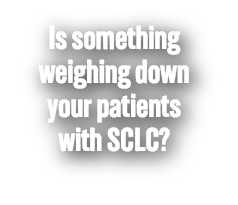
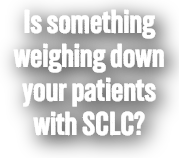
adjusted text image 1

diff --git a/043026_Catalyst_HTML5_AGA-0000_300x250.html b/043026_Catalyst_HTML5_AGA-0000_300x250.html
@@ -198,6 +198,26 @@
     <div id="pi-exit" onclick="exitHandler2()"></div>
   </div>
 
+  <!-- DEV ONLY: remove this entire block before final delivery -->
+  <style>
+    #dev-controls { margin-top: 20px; margin-left: 20px }
+    #dev-play-pause {
+      padding: 6px 18px;
+      font-family: Arial, sans-serif;
+      font-size: 13px;
+      cursor: pointer;
+      background: #44264A;
+      color: #fff;
+      border: none;
+      border-radius: 0px;
+    }
+    #dev-play-pause:hover { background: #5a3562; }
+  </style>
+  <div id="dev-controls">
+    <button id="dev-play-pause" onclick="devTogglePlayback()">Pause</button>
+  </div>
+  <!-- END DEV ONLY -->
+
   <script type="text/javascript">
     // Populate expiration date in all .legal containers from the meta tag
     const expDate = document.querySelector('meta[name="expiration-date"]').content;
@@ -263,6 +283,19 @@
       mainTimeline.add(animateFrame1()).add(animateFrame2().add(animateFrame3()).add(animateFrame4()).add(animateFrame5()).add(animateFrame6()).add(animateFrame7()));
       mainTimeline.play();
     }
+
+    // DEV ONLY: remove this function before final delivery
+    function devTogglePlayback() {
+      const btn = document.getElementById("dev-play-pause");
+      if (mainTimeline.paused()) {
+        mainTimeline.play();
+        btn.textContent = "Pause";
+      } else {
+        mainTimeline.pause();
+        btn.textContent = "Play";
+      }
+    }
+    // END DEV ONLY
 
     // Wait for GCM Enabler to initialise before starting the animation
     function init() { buildTimeline(); }